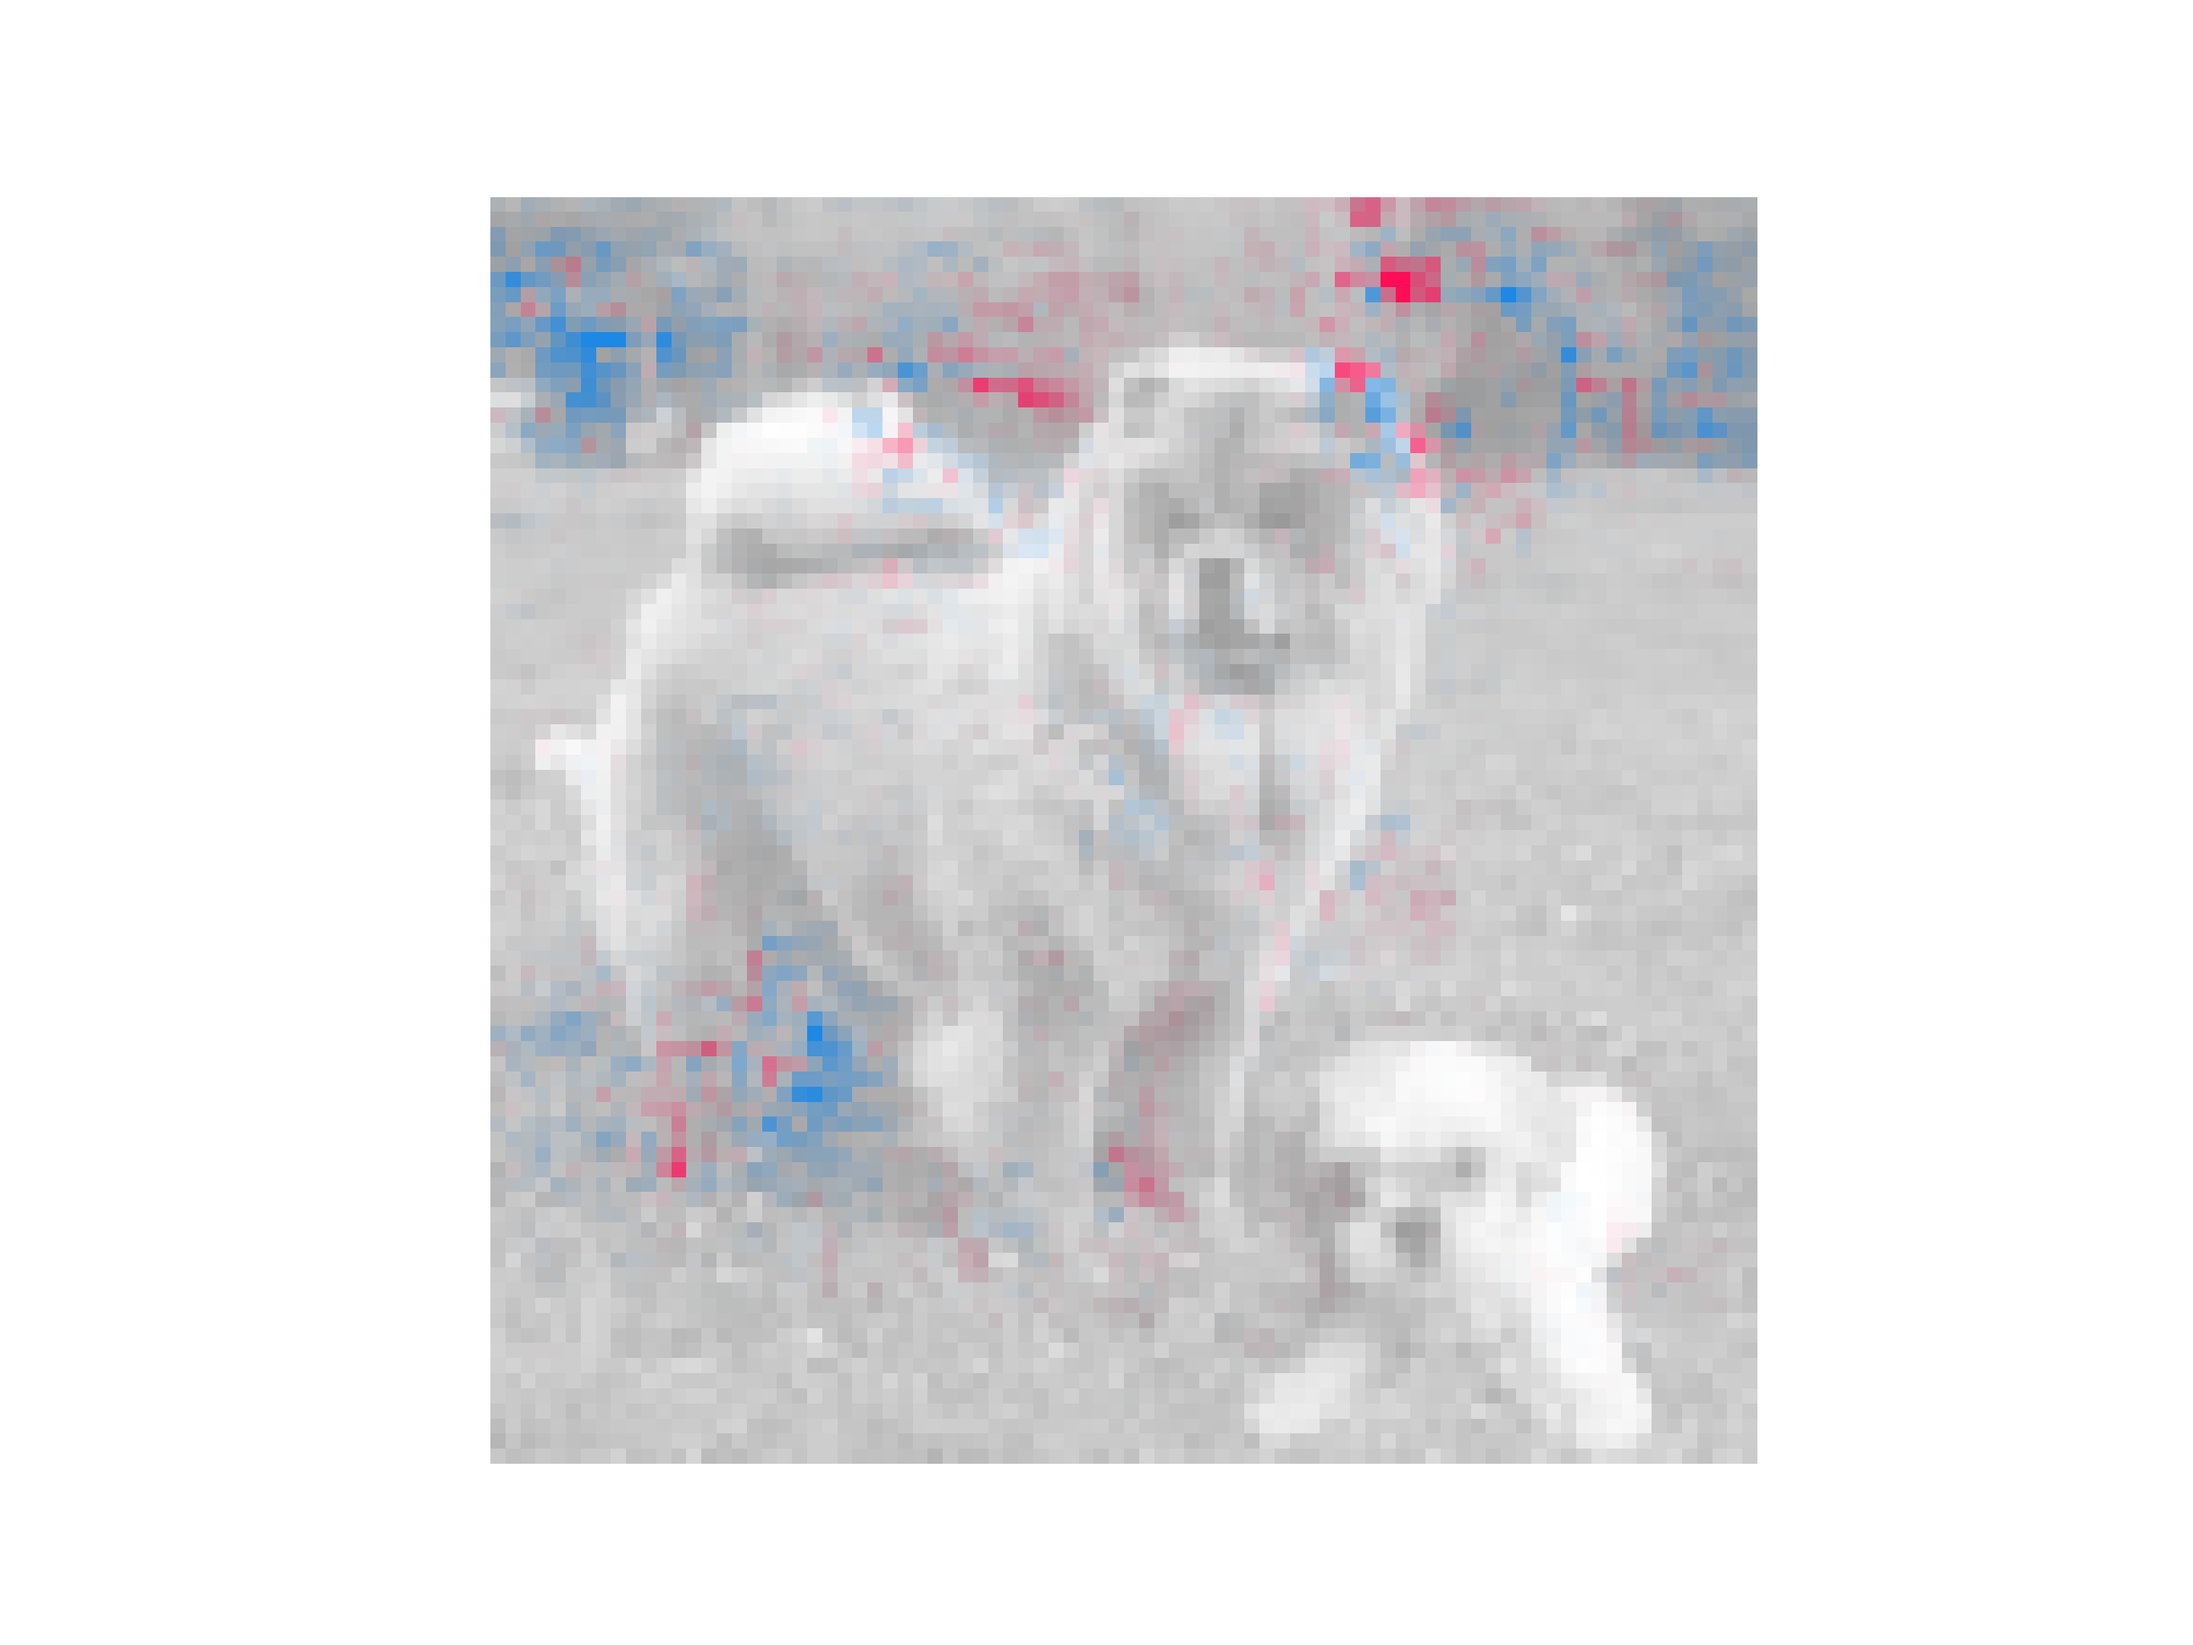
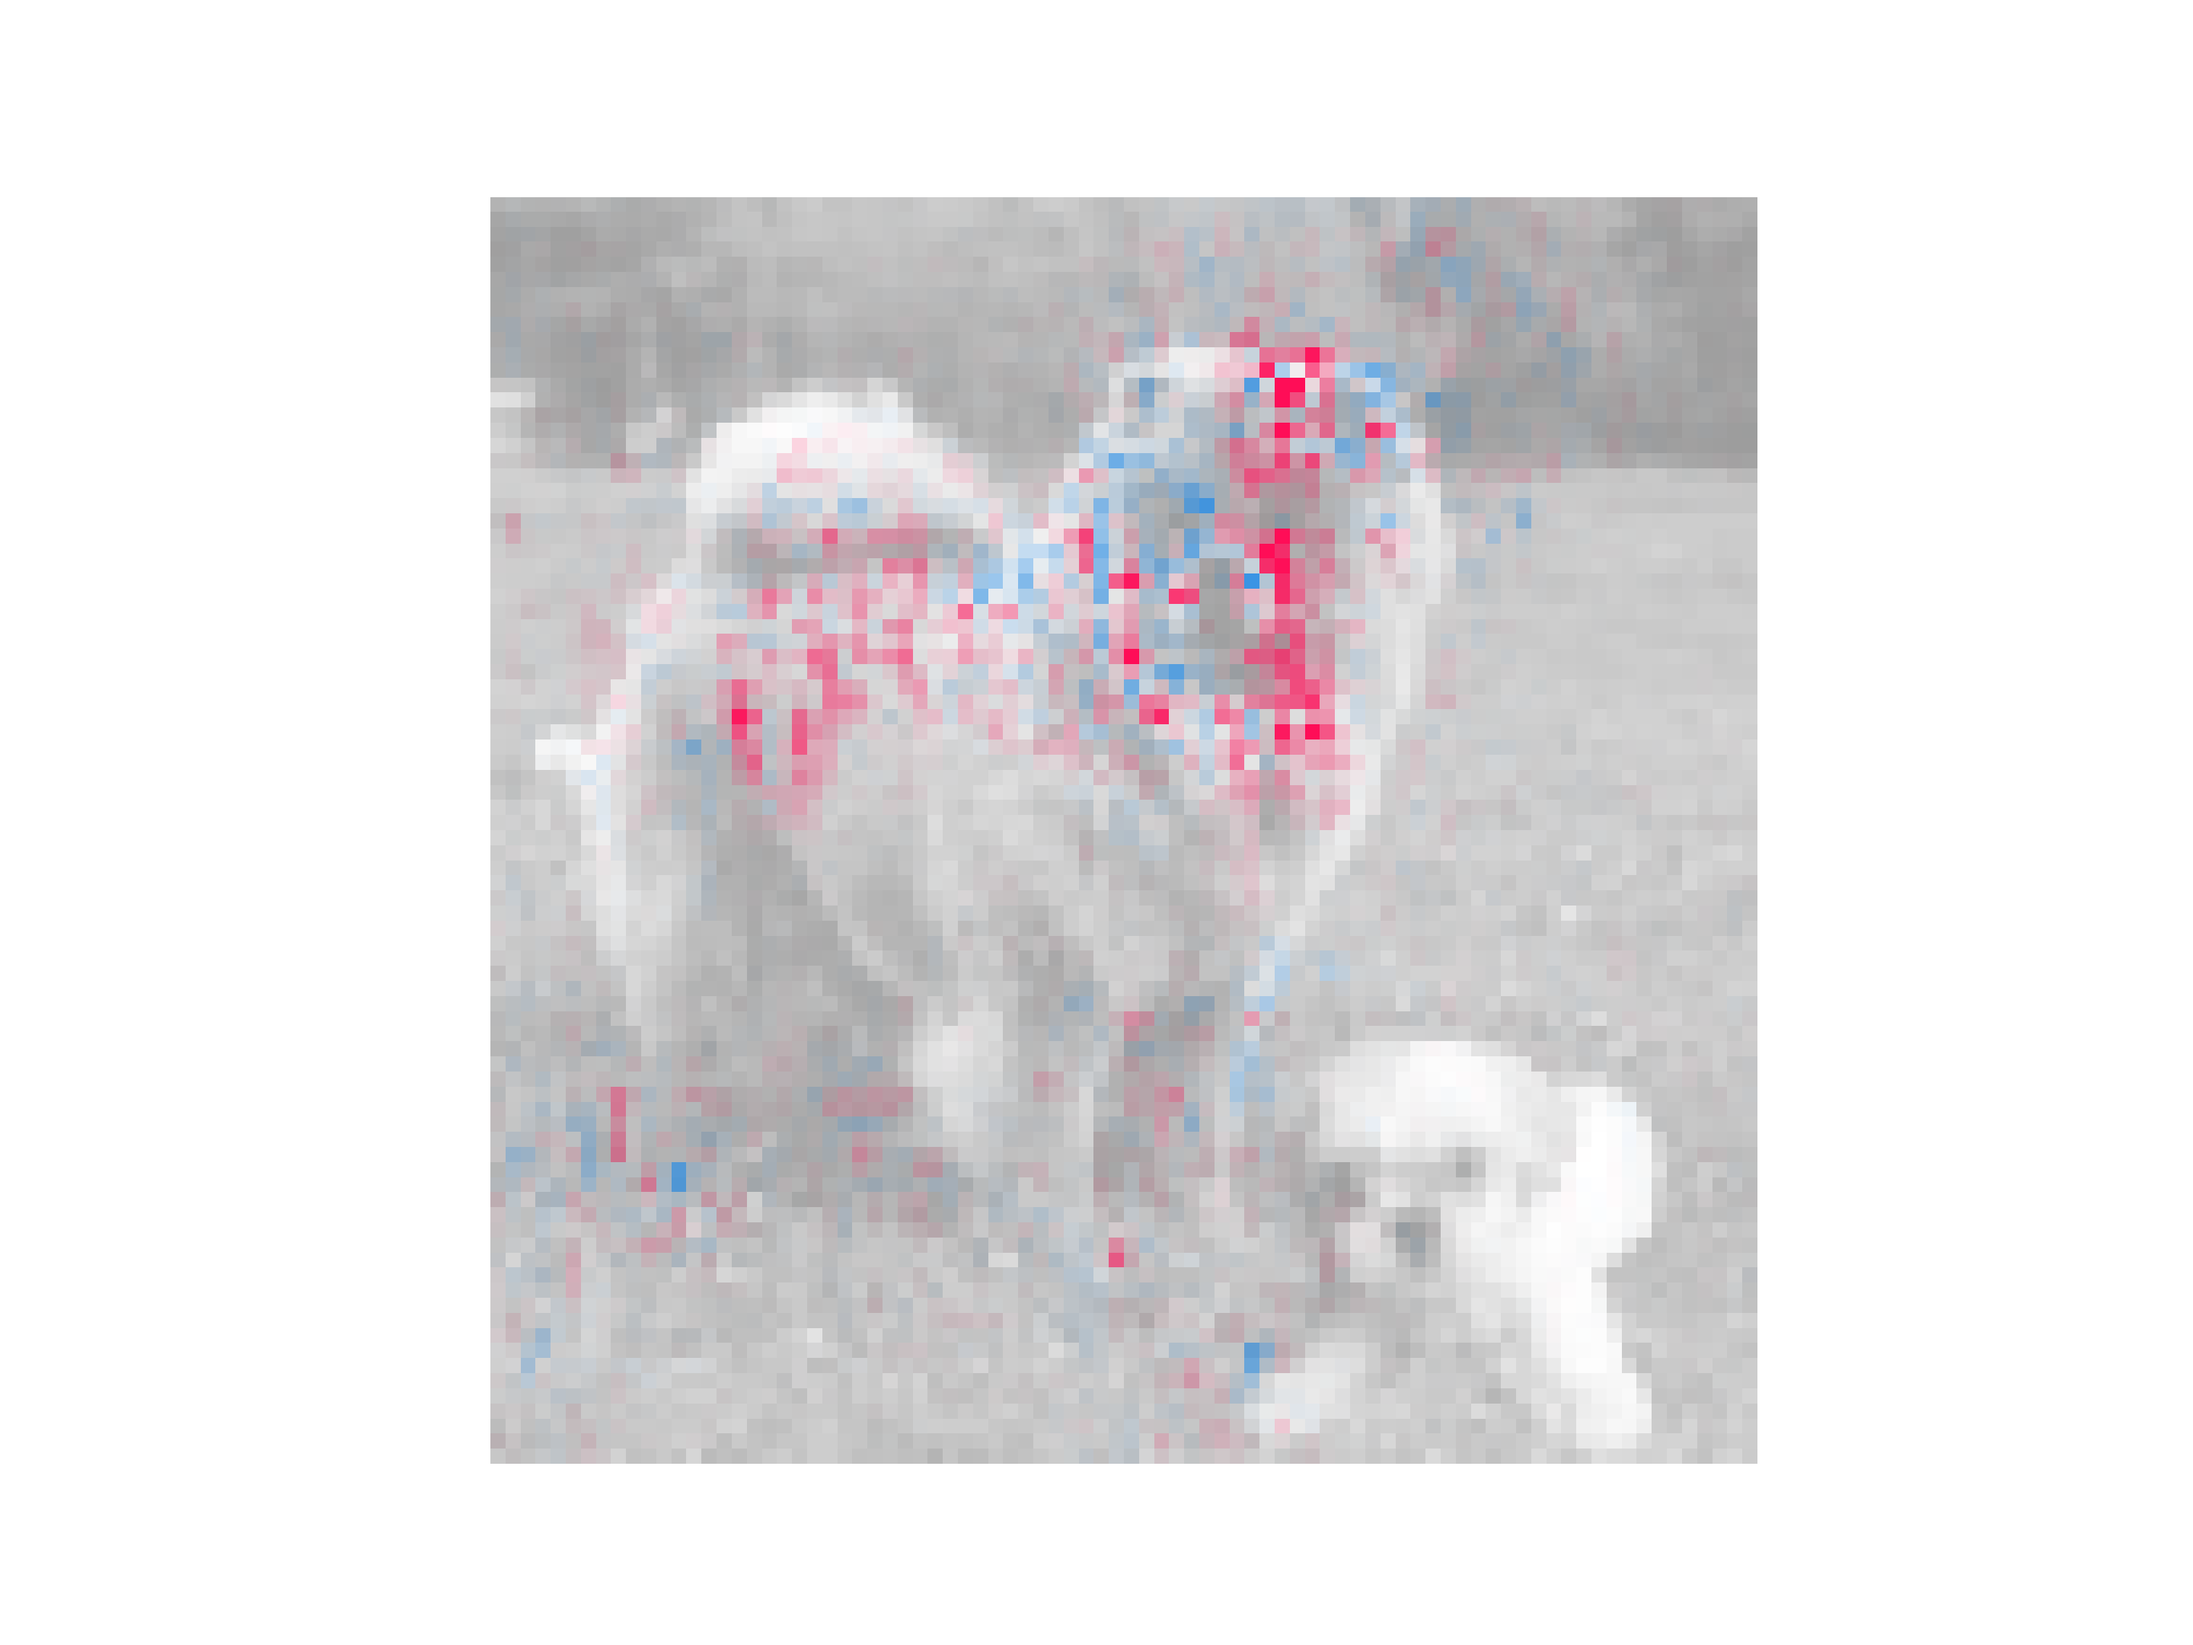
DOGS.

diff --git a/architectures/protoshotxai.py b/architectures/protoshotxai.py
@@ -146,7 +146,7 @@ class ProtoShotXAI:
 
     def image_feature_attribution_contra(self, support_data_1, support_data_2,
                                          # support_data_3,
-                                         query, class_indx, ref_pixel, pad=4, alpha=0.5, progress_bar=True):
+                                         query, class_indx, ref_pixel, pad=10, alpha=0.5, progress_bar=True):
         rows = np.shape(query)[1]
         cols = np.shape(query)[2]
         chnls = np.shape(query)[3]

diff --git a/architectures/c3a.py b/architectures/c3a.py
@@ -144,7 +144,7 @@ class C3Amodel:
 
     def image_feature_attribution_c3a(self, support_data_1, support_data_2,
                                       support_data_3,
-                                      query, ref_pixel, pad=2, alpha=0.5, progress_bar=True):
+                                      query, ref_pixel, pad=8, alpha=0.5, progress_bar=True):
         rows = np.shape(query)[1]
         cols = np.shape(query)[2]
         chnls = np.shape(query)[3]
